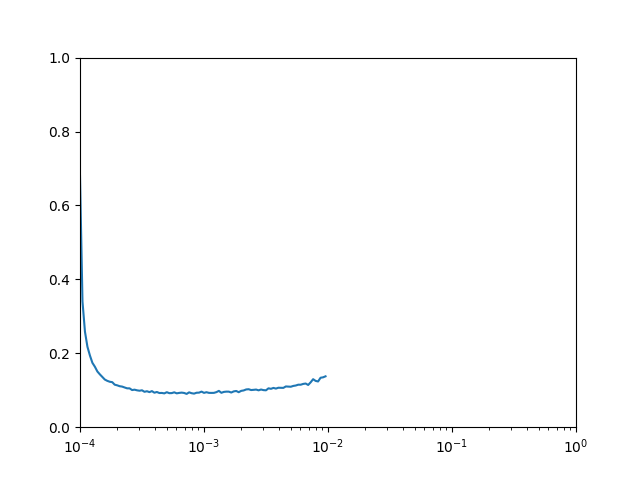
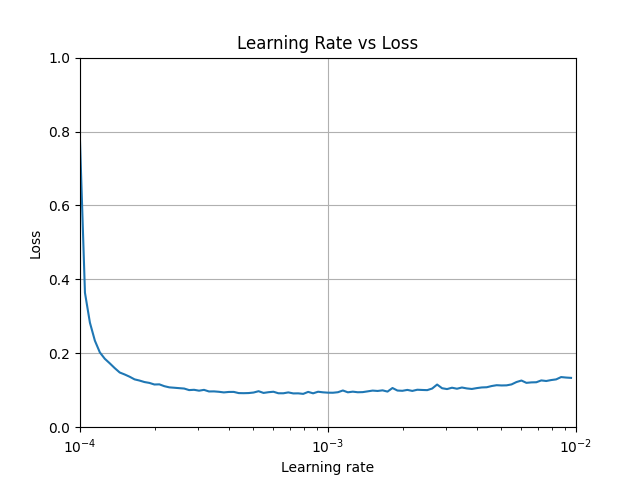
update the LR-search.png

diff --git a/ids.py b/ids.py
@@ -9,6 +9,7 @@ from tensorflow.keras.callbacks import LearningRateScheduler
 from tensorflow.keras.optimizers import Adam
 import tensorflow as tf
 import matplotlib.pyplot as plt
+from utils import plot_graphs
 
 root_folder = '/media/auro/RAID 5/networking'
 train_dataset = 'KDDTrain+.txt'
@@ -159,14 +160,18 @@ model = Sequential([
 print(model.summary())
 
 # this commented code is to scan for a good learning-rate
-# lr_scheduler = tf.keras.callbacks.LearningRateScheduler(lambda epochs: 1e-4 * 10 ** (epochs / 50), verbose=1)
-# model.compile(optimizer=Adam(lr=0.0001), loss='categorical_crossentropy', metrics=['accuracy'])
-# history = model.fit(train_matrix, train_labels, epochs=100, validation_data=(test_matrix, test_labels), callbacks=[lr_scheduler], verbose=2)
+lr_scheduler = tf.keras.callbacks.LearningRateScheduler(lambda epochs: 1e-4 * 10 ** (epochs / 50), verbose=1)
+model.compile(optimizer=Adam(lr=0.0001), loss='categorical_crossentropy', metrics=['accuracy'])
+history = model.fit(train_matrix, train_labels, epochs=100, validation_data=(test_matrix, test_labels), callbacks=[lr_scheduler], verbose=2)
 
-# scan for the appropriate learning rate
-# plt.semilogx(history.history["lr"], history.history["loss"])
-# plt.axis([1e-4, 1, 0, 1])
-# plt.show()
+# visually scan for the appropriate learning rate
+plt.semilogx(history.history["lr"], history.history["loss"])
+plt.axis([1e-4, 1e-2, 0, 1])
+plt.xlabel('Learning rate')
+plt.ylabel('Loss')
+plt.title('Learning Rate vs Loss')
+plt.grid()
+plt.show()
 
 # learning rate of 0.0006 found to have minimal loss
 nb_epochs = 30
@@ -178,9 +183,5 @@ acc = history.history['accuracy']
 loss = history.history['loss']
 val_acc = history.history['val_accuracy']
 val_loss = history.history['val_loss']
-
-
-
-
 plot_graphs(history, "loss")
 plot_graphs(history, "accuracy")
